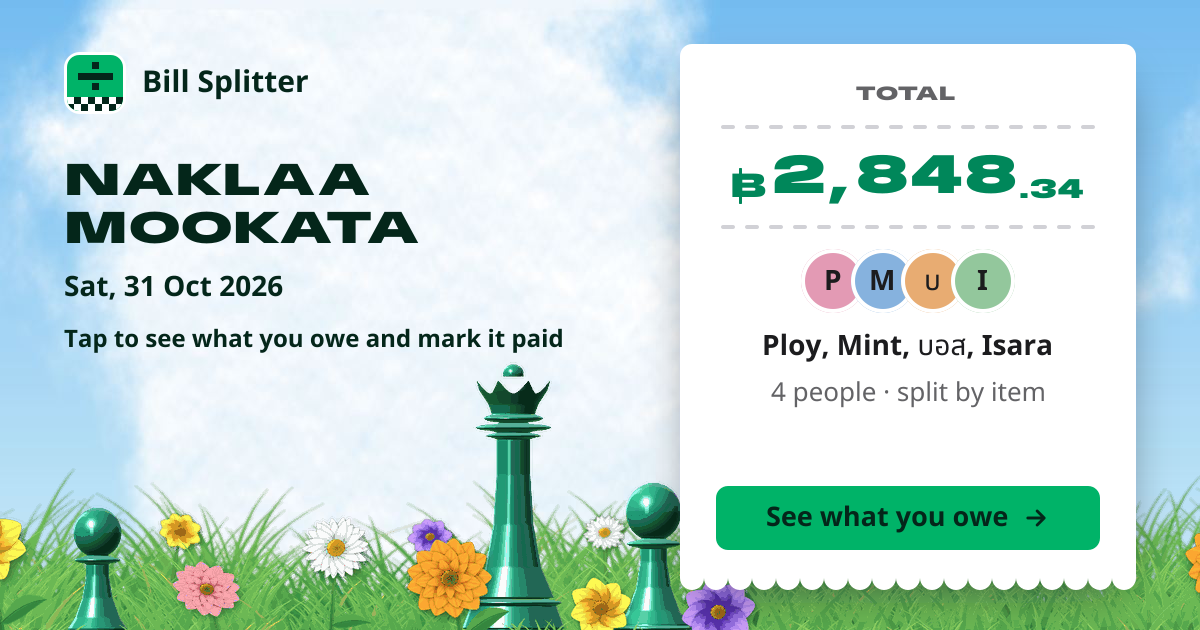
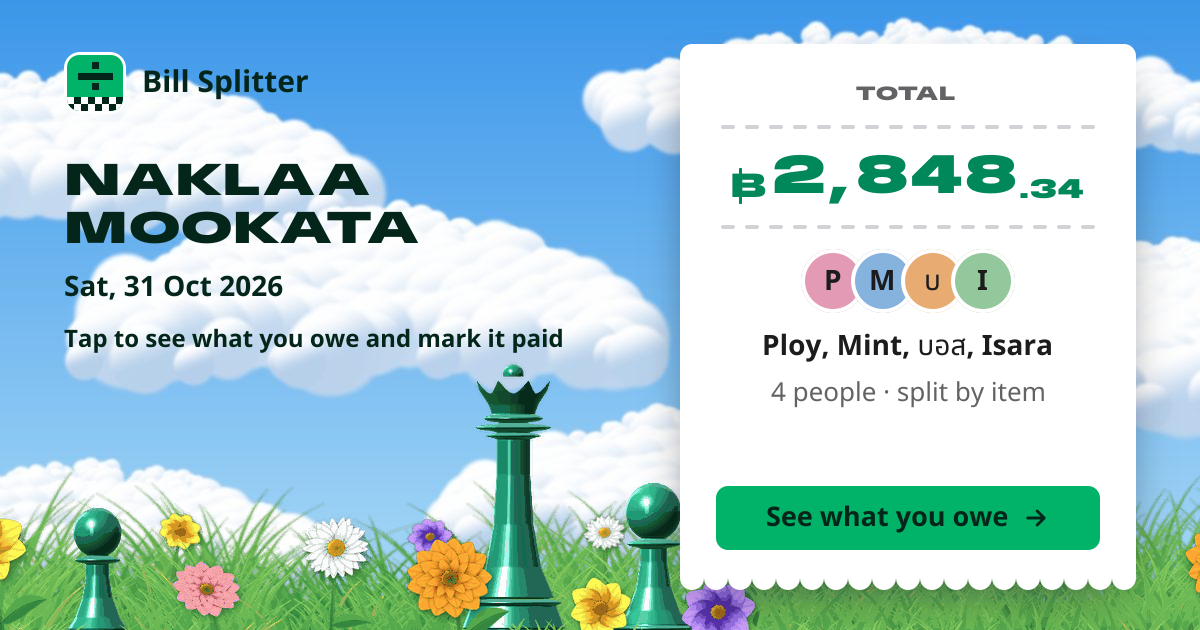
Preview cards: fluffy cumulus clouds
Painted from hundreds of soft shaded puffs, back to front, instead of a
single haze of noise.

diff --git a/scripts/make-art.py b/scripts/make-art.py
@@ -561,17 +561,55 @@ def scene(name):
 
 
 def cloud_sky(w=1200, h=630):
-    """The share card's background: a pale sky full of soft white clouds."""
-    rng = np.random.default_rng(23)
-    y = np.linspace(0, 1, h)[:, None, None]
-    grad = np.broadcast_to(rgb("#74BCF0") + (rgb("#CDEBF8") - rgb("#74BCF0")) * y, (h, w, 3)).copy()
-    n = soft_noise(w, h, rng, stretch=2.6, beta=1.9)
-    density = smooth(0.44, 0.56, n)
-    above = np.vstack([n[:10], n[:-10]])
-    lit = np.clip((n - above) * 8 + 0.78, 0, 1)
-    color = rgb("#BCDDF3")[None, None] + (rgb("#FFFFFF") - rgb("#BCDDF3"))[None, None] * lit[..., None]
-    out = grad + (color - grad) * density[..., None]
-    return Image.fromarray((np.clip(out, 0, 1) * 255).astype(np.uint8))
+    """The share card's background: fluffy cumulus clouds, painted from hundreds of soft
+    shaded puffs, back to front, so they read like cauliflower rather than haze."""
+    rng = np.random.default_rng(29)
+    k = 2  # drawn big, then scaled down
+    W2, H2 = w * k, h * k
+    y = np.linspace(0, 1, H2)[:, None, None]
+    out = np.broadcast_to(rgb("#3C97EA") + (rgb("#AEDDF7") - rgb("#3C97EA")) * y, (H2, W2, 3)).copy()
+    white, shade_hi, shade_lo = rgb("#FFFFFF"), rgb("#E2EEF9"), rgb("#AFCBE8")
+    # (centre x, base y, half width, height)
+    clouds = [(900, 150, 330, 120), (70, 230, 300, 150), (1130, 420, 250, 170), (360, 380, 300, 165), (760, 560, 330, 150), (90, 590, 240, 120)]
+    for cx, base, half, tall in clouds:
+        cx, base, half, tall = cx * k, base * k, half * k, tall * k
+        puffs = []
+        # Stay inside the ends, where puffs would stack into rings; a body first, so no holes.
+        for t in np.linspace(-0.82, 0.82, 16):
+            dome = (1 - t * t) ** 0.6
+            for f in (0.25, 0.5, 0.72):
+                r = tall * 0.26
+                puffs.append((cx + t * half, base - r * 0.5 - f * dome * (tall - r), r, f))
+        for _ in range(170):
+            t = rng.uniform(-0.93, 0.93)
+            dome = max(0.0, 1 - t * t) ** 0.6
+            up = rng.uniform(0, 1) ** 0.75 * dome  # 0 at the base, 1 at the crown
+            r = tall * rng.uniform(0.1, 0.24) * (0.8 + 0.5 * (1 - up))
+            # Keep lumps near the outline: that's what makes the edge cauliflower.
+            puffs.append((cx + t * half, base - r * 0.5 - up * (tall - r), r, up))
+        for _ in range(170):  # small lumps riding on the crown
+            t = rng.uniform(-0.92, 0.92)
+            dome = max(0.0, 1 - t * t) ** 0.6
+            r = tall * rng.uniform(0.045, 0.1)
+            puffs.append((cx + t * half, base - dome * tall * rng.uniform(0.82, 1.03), r, 1.0))
+        puffs.sort(key=lambda q: q[1])  # higher puffs first, lower ones overlap them
+        for px, py, r, up in puffs:
+            x0, x1 = max(0, int(px - r)), min(W2, int(px + r) + 1)
+            y0, y1 = max(0, int(py - r)), min(H2, int(py + r) + 1)
+            if x0 >= x1 or y0 >= y1:
+                continue
+            ys, xs = np.mgrid[y0:y1, x0:x1].astype(np.float32)
+            u, v = (xs - px) / r, (ys - py) / r
+            d = np.sqrt(u * u + v * v)
+            alpha = (1 - smooth(0.82, 1.0, d))[..., None]
+            # Each puff: bright where it faces the light, shaded low on the right.
+            lit = smooth(-0.15, 0.72, -(v * 0.82 + u * 0.32))[..., None]
+            low = np.clip((py - (base - tall)) / tall, 0, 1)
+            shadow = shade_hi + (shade_lo - shade_hi) * low**1.5
+            col = shadow[None, None] + (white - shadow)[None, None] * lit
+            out[y0:y1, x0:x1] = out[y0:y1, x0:x1] + (col - out[y0:y1, x0:x1]) * alpha
+    img = Image.fromarray((np.clip(out, 0, 1) * 255).astype(np.uint8)).filter(ImageFilter.GaussianBlur(1.1 * k))
+    return img.resize((w, h), Image.LANCZOS)
 
 
 def write_webp(img, path, q):
@@ -618,7 +656,7 @@ def main():
     os.makedirs(os.path.join(root, "public/meadow"), exist_ok=True)
     os.makedirs(os.path.join(root, "public/scene"), exist_ok=True)
     os.makedirs(os.path.join(root, "assets/og"), exist_ok=True)
-    cloud_sky().save(os.path.join(root, "assets/og/clouds.jpg"), quality=78, optimize=True)
+    cloud_sky().save(os.path.join(root, "assets/og/clouds.jpg"), quality=82, optimize=True)
     for name in SCENES:
         img = scene(name)
         write_webp(img, os.path.join(root, f"public/scene/{name}-1800.webp"), 62)
